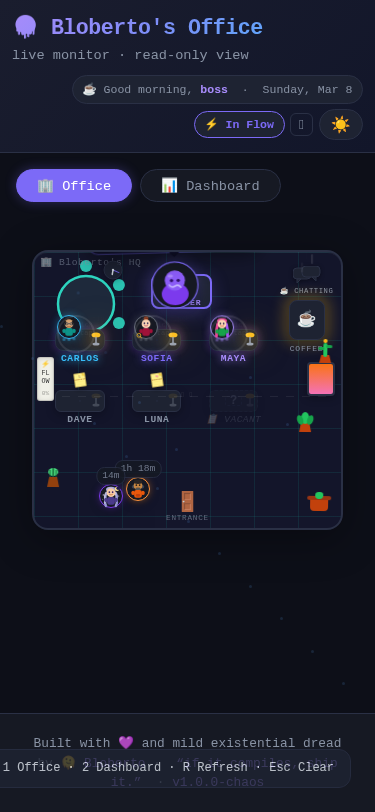
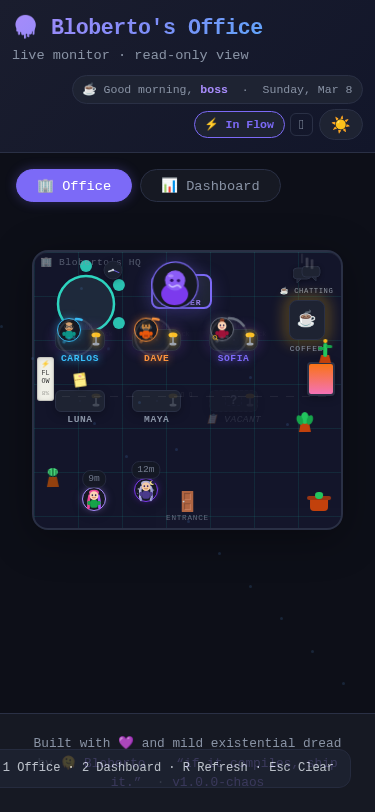
✨ Ship 3 features: Ficus Milestone Burst, Away Sign Escalation, Full-Sync Aura
- Ficus celebrates level-ups with leaf burst + foliage flash animation
- Away signs visually escalate: tilt/scale at 30min, sag animation at 60min
- Floor glows purple + banner when all workers are in sync

diff --git a/src/Office.jsx b/src/Office.jsx
@@ -280,7 +280,7 @@ function AwaySign({ workerId, idleMinutes }) {
   )
 
   return (
-    <div className="desk-away-sign" aria-label={`Away: ${message}`} role="img" title={message}>
+    <div className="desk-away-sign" data-tier={idleMinutes >= 60 ? 'long' : idleMinutes >= 30 ? 'mid' : 'short'} aria-label={`Away: ${message}`} role="img" title={message}>
       <svg
         className="desk-away-sign__note"
         width="12" height="14"
@@ -717,10 +717,23 @@ export default function Office({ workers = [], roster = [], isSyncing = false, a
   const plantStageNames = ['seedling', 'sprout', 'small-plant', 'leafy', 'blooming']
   const plantStage = plantStageNames[Math.min(Math.floor(vibeStreak / 5), 4)]
 
+  // Ficus milestone burst
+  const prevPlantStageRef = useRef(plantStage)
+  const [plantMilestone, setPlantMilestone] = useState(false)
+  useEffect(() => {
+    if (prevPlantStageRef.current !== plantStage && plantStage !== 'seedling') {
+      setPlantMilestone(true)
+      const t = setTimeout(() => setPlantMilestone(false), 1600)
+      return () => clearTimeout(t)
+    }
+    prevPlantStageRef.current = plantStage
+  }, [plantStage])
+
   const nonMgr        = workers.filter(w => w.id !== 'bloberto')
   const workingWorkers = nonMgr.filter(w => w.status === 'working')
   const idleWorkers    = nonMgr.filter(w => w.status !== 'working')
   const hasAnyError    = nonMgr.some(w => w.status === 'error')
+  const isFullSync     = nonMgr.length > 0 && idleWorkers.length === 0 && workingWorkers.length === nonMgr.length
 
   const avgProgress = Math.round(
     workingWorkers.reduce((s, w) => s + (w.progress || 0), 0) / Math.max(workingWorkers.length, 1)
@@ -769,13 +782,14 @@ export default function Office({ workers = [], roster = [], isSyncing = false, a
   return (
     <div className="office-wrap">
       <div
-        className="office-floor" data-vibe={vibe} data-has-error={hasAnyError || undefined}
+        className="office-floor" data-vibe={vibe} data-has-error={hasAnyError || undefined} data-full-sync={isFullSync || undefined}
         role="region"
         aria-label="Virtual office visualization showing team members at desks"
       >
 
         <VibeShockwave vibeKey={vibe} />
         <div className="office-sign">🏢 Bloberto&apos;s HQ</div>
+        {isFullSync && <div className="full-sync-banner" aria-label="Full team sync" aria-live="polite">⚡ Full sync</div>}
 
         {/* Wall clock — top wall, between sign and manager area */}
         <WallClock vibeKey={vibe} />
@@ -967,6 +981,7 @@ export default function Office({ workers = [], roster = [], isSyncing = false, a
         {/* Fern the office ficus — grows with vibeStreak */}
         <div
           className={`office-plant office-plant--ficus office-plant--${plantStage}`}
+          data-milestone={plantMilestone || undefined}
           style={{ left: '87%', top: '72%' }}
           title="Fern the office ficus"
           aria-hidden="true"

diff --git a/src/Office.css b/src/Office.css
@@ -1659,3 +1659,80 @@
 /* ── Feature: Character Click Sonar Ping (Luna #37.4) ── */
 .char--pinged .char__avatar::after { content:''; position:absolute; inset:-3px; border-radius:50%; border:2px solid var(--role-color, var(--accent)); animation:sonar-ping 0.7s ease-out forwards; pointer-events:none; }
 @keyframes sonar-ping { from{opacity:0.9;transform:scale(0.85)} to{opacity:0;transform:scale(2.4)} }
+
+/* === Away Sign Timer Escalation === */
+.desk-away-sign[data-tier='mid'] .desk-away-sign__note {
+  transform: rotate(-5deg) scale(1.12);
+  filter: saturate(1.3);
+  transition: transform 0.6s ease, filter 0.6s ease;
+}
+.desk-away-sign[data-tier='long'] .desk-away-sign__note {
+  transform: rotate(-9deg) scale(1.25);
+  filter: saturate(1.6) brightness(1.1);
+  animation: sign-sag 2.5s ease-in-out infinite;
+}
+@keyframes sign-sag {
+  0%, 100% { transform: rotate(-9deg) scale(1.25); }
+  50% { transform: rotate(-6deg) scale(1.25); }
+}
+.desk-away-sign[data-tier='long'] .desk-away-sign__note rect:first-child {
+  fill: #fde047 !important;
+}
+
+/* === Ficus Milestone Burst === */
+.office-plant--ficus[data-milestone]::after {
+  content: '🌿';
+  position: absolute;
+  top: 0;
+  left: 50%;
+  transform: translateX(-50%);
+  font-size: 9px;
+  animation: leaf-burst 1.6s ease-out forwards;
+  pointer-events: none;
+  z-index: 5;
+}
+@keyframes leaf-burst {
+  0% { opacity: 1; transform: translateX(-50%) translateY(0) scale(0.4); }
+  55% { opacity: 1; transform: translateX(-50%) translateY(-18px) scale(1.1); }
+  100% { opacity: 0; transform: translateX(-50%) translateY(-28px) scale(0.9); }
+}
+.office-plant--ficus[data-milestone] .ficus-foliage {
+  animation: foliage-flash 0.4s ease-out 2 both;
+}
+@keyframes foliage-flash {
+  0%, 100% { filter: none; }
+  50% { filter: brightness(1.5) drop-shadow(0 0 4px #4ade80); }
+}
+
+/* === Full-Sync Aura === */
+.office-floor[data-full-sync] {
+  border-color: var(--accent) !important;
+  animation: full-sync-pulse 3.5s ease-in-out infinite;
+}
+@keyframes full-sync-pulse {
+  0%, 100% { box-shadow: 0 8px 40px rgba(0,0,0,0.35), inset 0 1px 0 rgba(255,255,255,0.05); }
+  50% { box-shadow: 0 8px 40px rgba(0,0,0,0.35), 0 0 0 3px rgba(167,139,250,0.35), inset 0 1px 0 rgba(255,255,255,0.08); }
+}
+.full-sync-banner {
+  position: absolute;
+  top: 0;
+  left: 50%;
+  transform: translateX(-50%);
+  font-size: 0.42rem;
+  font-weight: 700;
+  letter-spacing: 0.14em;
+  text-transform: uppercase;
+  color: var(--accent);
+  background: rgba(167,139,250,0.1);
+  border: 1px solid rgba(167,139,250,0.28);
+  border-top: none;
+  border-radius: 0 0 6px 6px;
+  padding: 2px 10px;
+  z-index: 5;
+  white-space: nowrap;
+  animation: banner-drop 0.4s cubic-bezier(0.34,1.56,0.64,1) both;
+}
+@keyframes banner-drop {
+  from { opacity: 0; transform: translateX(-50%) translateY(-8px); }
+  to { opacity: 1; transform: translateX(-50%) translateY(0); }
+}
